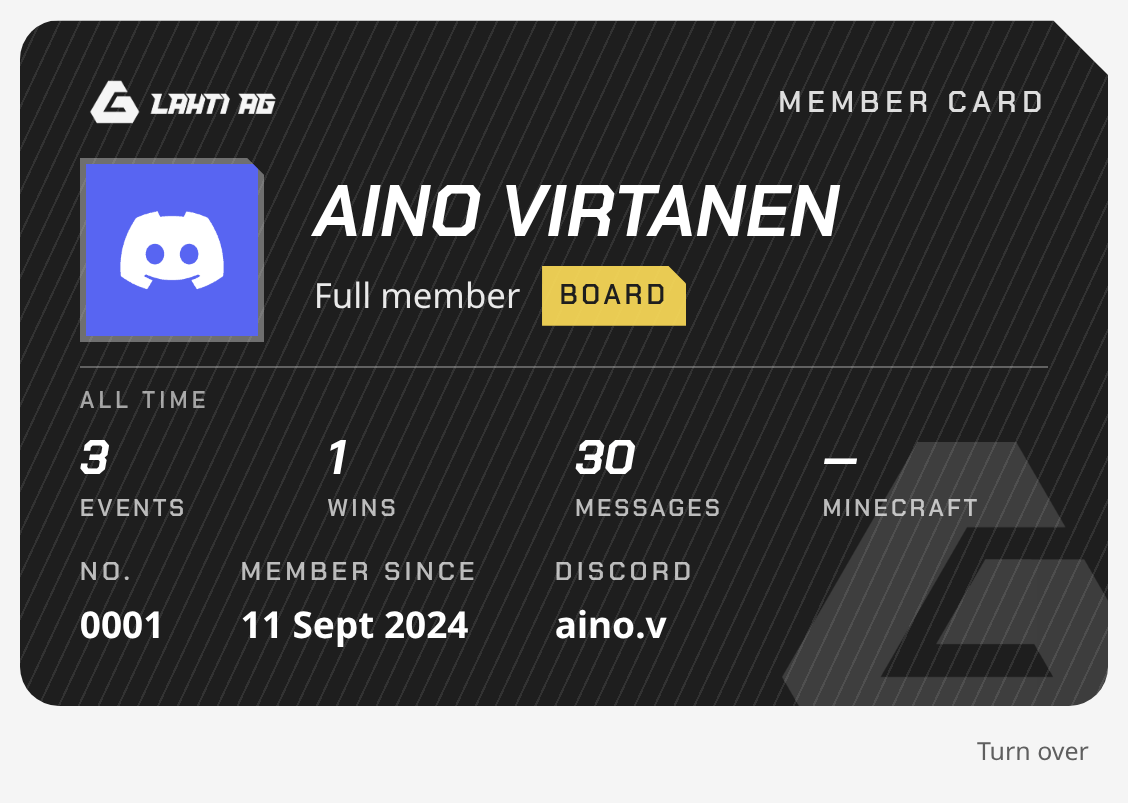
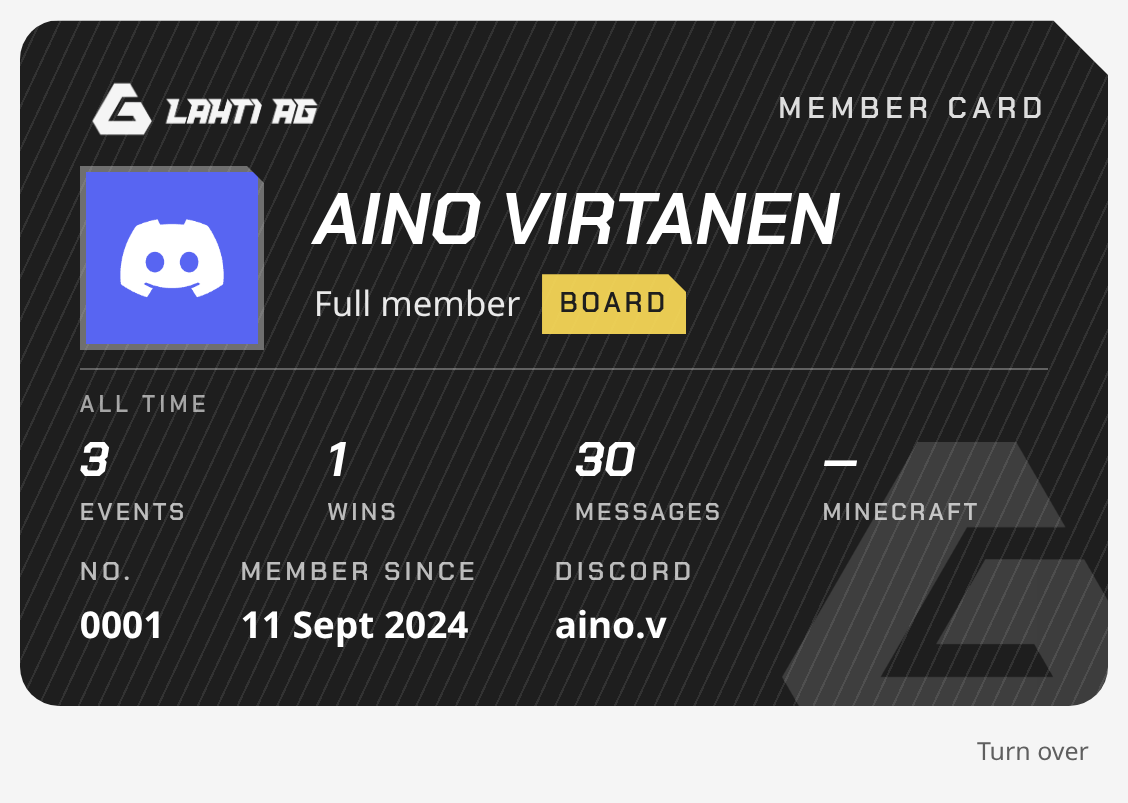
Stop long names clipping the card, and settle the foil
A card's height is fixed by its proportions, so a name that wraps to two
lines pushed the bottom row off the bottom and overflow cut it. Every test
persona happened to have a name that fit on one line; a real one did not.
Long names are set smaller now, and the card is sized to hold two lines of
that smaller size, since some names wrap however small they are set. Every
name from thirteen to twenty-five characters now leaves the bottom row
exactly on the padding line at both orientations.

The back's stamp is silver on every stock and smaller; the gold and the
graphite go with it. The wordmark is bigger on both faces.

Claude-Session: https://claude.ai/code/session_019m4NkzFyEy3cwdh3cuTmAt

diff --git a/src/styles/site.css b/src/styles/site.css
@@ -690,15 +690,14 @@ a:hover {
   --card-stripe: rgba(0, 0, 0, 0.45);
   --card-shadow: rgba(65, 105, 225, 0.55);
   --card-edge: none;
-  --card-foil: var(--foil-silver);
   --card-foil-opacity: 0.85;
 }
 
-/* Foils for the back's stamp. Metal is a run of light and dark bands, not
-   a smooth ramp: the hard turns are what make it read as a surface rather
-   than a gradient. */
+/* The foil for the back's stamp. Metal is a run of light and dark bands,
+   not a smooth ramp: the hard turns are what make it read as a surface
+   rather than a gradient. */
 :root {
-  --foil-silver: linear-gradient(
+  --card-foil: linear-gradient(
     105deg,
     #6f7276 0%,
     #dfe3e9 12%,
@@ -710,35 +709,10 @@ a:hover {
     #ccd2da 85%,
     #7b8188 100%
   );
-  --foil-gold: linear-gradient(
-    105deg,
-    #8a6a1f 0%,
-    #f8e6a8 12%,
-    #c9a247 23%,
-    #fffbe9 34%,
-    #d4af4f 46%,
-    #f4e4ab 58%,
-    #a67f28 71%,
-    #e9d182 85%,
-    #8f6d21 100%
-  );
-  --foil-graphite: linear-gradient(
-    105deg,
-    #23241f 0%,
-    #6f7268 12%,
-    #191a16 23%,
-    #93968b 34%,
-    #24261f 46%,
-    #787b70 58%,
-    #17180f 71%,
-    #5f6257 85%,
-    #212219 100%
-  );
 }
 
 .id-tier-active {
-  --card-foil: var(--foil-graphite);
-  --card-foil-opacity: 0.8;
+  --card-foil-opacity: 0.9;
   --card-bg: var(--yellow);
   --card-ink: var(--ink);
   --card-rule: rgba(30, 30, 30, 0.28);
@@ -756,7 +730,6 @@ a:hover {
 }
 
 .id-tier-board {
-  --card-foil: var(--foil-gold);
   --card-bg: var(--ink);
   --card-shadow: rgba(30, 30, 30, 0.5);
 }
@@ -837,7 +810,7 @@ a:hover {
   display: grid;
   grid-template-columns: auto minmax(0, 1fr);
   grid-template-rows: auto 1fr auto auto;
-  gap: 1.8cqi 4.5cqi;
+  gap: 1.5cqi 4.5cqi;
   aspect-ratio: 1.586; /* ID-1, the size of a bank card */
   padding: 4.5cqi 5.5cqi;
   background: var(--card-bg);
@@ -937,10 +910,10 @@ a:hover {
    hologram, and the small print is kept clear of it. */
 .id-card-foil {
   position: absolute;
-  right: 3cqi;
-  bottom: 3cqi;
-  width: 24cqi;
-  height: 24cqi;
+  right: 3.5cqi;
+  bottom: 3.5cqi;
+  width: 16cqi;
+  height: 16cqi;
   background: var(--card-foil);
   background-size: 260% 260%;
   background-position: var(--mx, 50%) var(--my, 50%);
@@ -979,7 +952,7 @@ a:hover {
 }
 
 .id-card-logo {
-  width: 19cqi;
+  width: 23cqi;
   height: auto;
 }
 
@@ -1029,6 +1002,14 @@ a:hover {
   line-height: 1.05;
   text-transform: uppercase;
   overflow-wrap: anywhere;
+}
+
+.id-name-long .id-card-name {
+  font-size: 5.6cqi;
+}
+
+.id-name-longer .id-card-name {
+  font-size: 4.8cqi;
 }
 
 .id-card-class {
@@ -1196,7 +1177,7 @@ a:hover {
 }
 
 .id-card-small {
-  margin: auto 30cqi 0 5.5cqi;
+  margin: auto 22cqi 0 5.5cqi;
   font-size: 2.4cqi;
   line-height: 1.45;
   opacity: 0.75;
@@ -1274,7 +1255,7 @@ a:hover {
   }
 
   .id-card-logo {
-    width: 30cqi;
+    width: 35cqi;
   }
 
   .id-card-kind {
@@ -1288,8 +1269,8 @@ a:hover {
   }
 
   .id-card-photo img {
-    width: 42cqi;
-    height: 42cqi;
+    width: 34cqi;
+    height: 34cqi;
     border-width: 0.9cqi;
   }
 
@@ -1301,6 +1282,14 @@ a:hover {
 
   .id-card-name {
     font-size: 9.5cqi;
+  }
+
+  .id-name-long .id-card-name {
+    font-size: 7.6cqi;
+  }
+
+  .id-name-longer .id-card-name {
+    font-size: 6.2cqi;
   }
 
   .id-card-class {
@@ -1386,10 +1375,10 @@ a:hover {
   }
 
   .id-card-foil {
-    width: 54cqi;
-    height: 54cqi;
+    width: 34cqi;
+    height: 34cqi;
     right: 6.5cqi;
-    bottom: 34cqi;
+    bottom: 40cqi;
   }
 
   .id-card-small {
